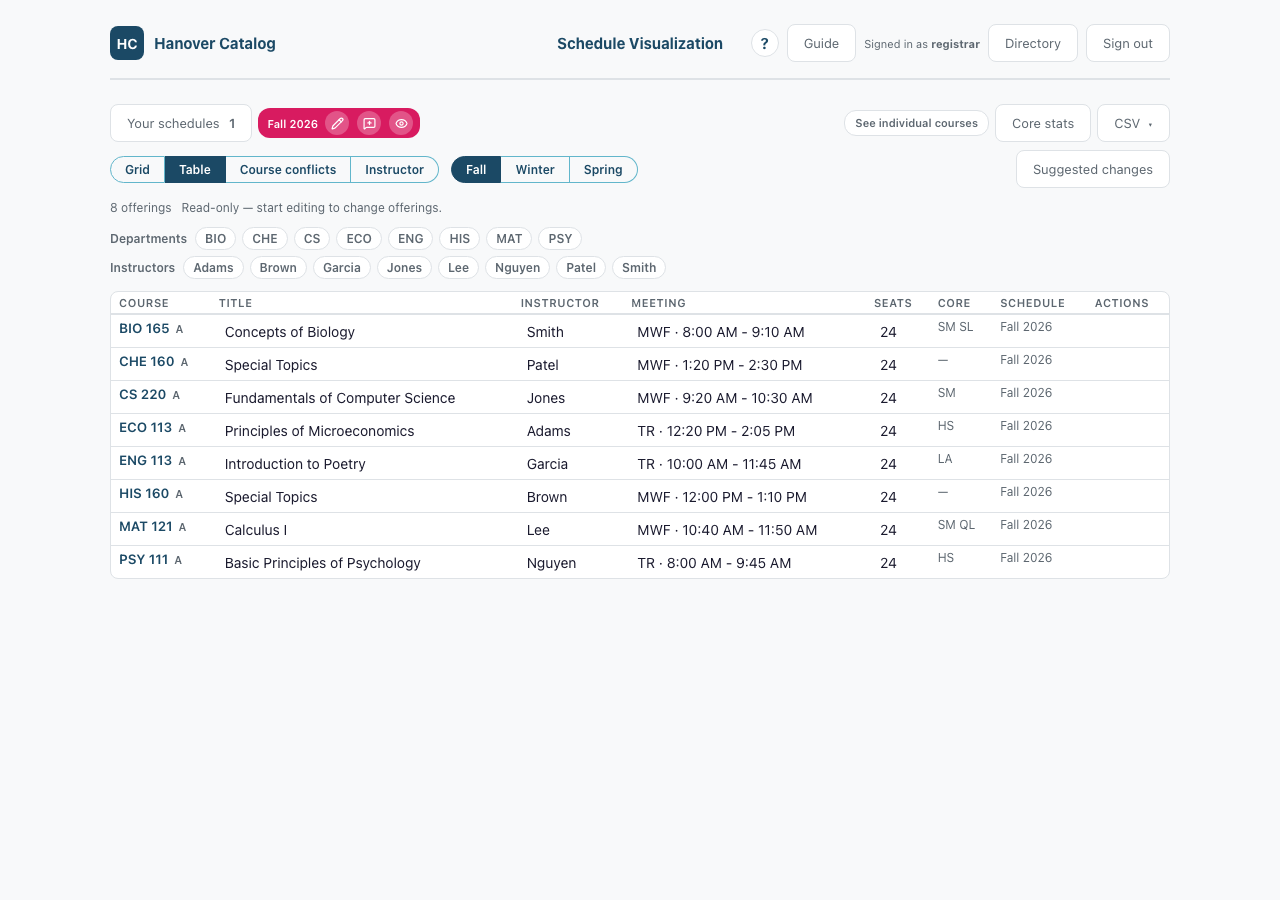
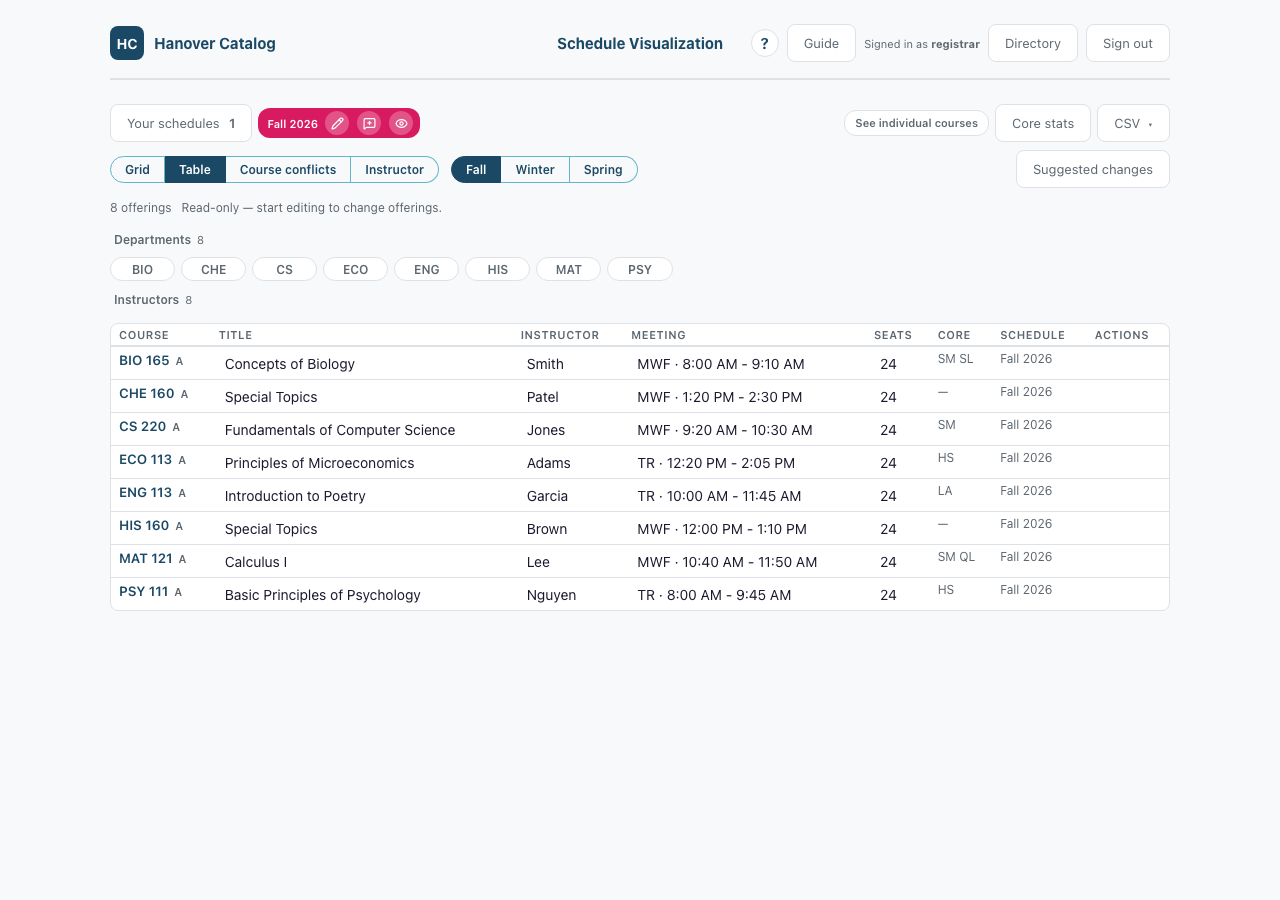
schedule: collapsible, uniform-width filter chips in the table
The instructor chip row dumped every instructor at once, and content-sized
chips made the list ragged. Each row is now a disclosure group with a header
('Instructors 34', or '2 selected' when active): Departments open by default,
Instructors closed, and any row with a selection stays open (so a deep link or
a fresh pick is never hidden). Both rows render as equal-width chip grids
(64px departments, 130px instructors) — a long name ellipsizes with a title
tooltip instead of stretching the row. The e2e asserts the collapsed default
and expands before the chip flow.

Changed region(s): [[0.0938, 0.2489, 0.9062, 0.6844]]

diff --git a/apps/schedule/components/ScheduleTable.vue b/apps/schedule/components/ScheduleTable.vue
@@ -18,35 +18,67 @@
     </div>
 
     <div class="schedule-table-filters">
-      <div v-if="departments.length" class="schedule-table-filter-row">
-        <span class="schedule-table-filter-label">Departments</span>
+      <div v-if="departments.length" class="schedule-table-filter-group">
         <button
-          v-for="d in departments"
-          :key="d"
           type="button"
-          class="filter-chip"
-          :class="{ active: selectedDepts.includes(d) }"
-          :style="selectedDepts.includes(d) ? { backgroundColor: colorForDept(d) } : {}"
-          :aria-pressed="selectedDepts.includes(d)"
-          @click="toggleDept(d)"
+          class="schedule-table-filter-toggle"
+          :aria-expanded="deptOpen || selectedDepts.length > 0"
+          @click="deptOpen = !deptOpen"
         >
-          {{ d }}{{ myDepartments.includes(d) ? ' (mine)' : '' }}
+          <span class="schedule-table-filter-label">Departments</span>
+          <span class="schedule-table-filter-count">{{
+            selectedDepts.length ? `${selectedDepts.length} selected` : departments.length
+          }}</span>
         </button>
+        <div
+          v-show="deptOpen || selectedDepts.length > 0"
+          class="schedule-table-filter-row schedule-table-chip-grid schedule-table-chip-grid-dept"
+        >
+          <button
+            v-for="d in departments"
+            :key="d"
+            type="button"
+            class="filter-chip"
+            :class="{ active: selectedDepts.includes(d) }"
+            :style="selectedDepts.includes(d) ? { backgroundColor: colorForDept(d) } : {}"
+            :aria-pressed="selectedDepts.includes(d)"
+            :title="d"
+            @click="toggleDept(d)"
+          >
+            {{ d }}{{ myDepartments.includes(d) ? ' (mine)' : '' }}
+          </button>
+        </div>
       </div>
-      <div v-if="instructors.length" class="schedule-table-filter-row">
-        <span class="schedule-table-filter-label">Instructors</span>
+      <div v-if="instructors.length" class="schedule-table-filter-group">
         <button
-          v-for="n in instructors"
-          :key="n"
           type="button"
-          class="filter-chip"
-          :class="{ active: selectedInstructors.includes(n) }"
-          :style="selectedInstructors.includes(n) ? { backgroundColor: colorForInstructor(n) } : {}"
-          :aria-pressed="selectedInstructors.includes(n)"
-          @click="toggleInstructor(n)"
+          class="schedule-table-filter-toggle"
+          :aria-expanded="instrOpen || selectedInstructors.length > 0"
+          @click="instrOpen = !instrOpen"
         >
-          {{ instructorName(n) }}
+          <span class="schedule-table-filter-label">Instructors</span>
+          <span class="schedule-table-filter-count">{{
+            selectedInstructors.length ? `${selectedInstructors.length} selected` : instructors.length
+          }}</span>
         </button>
+        <div
+          v-show="instrOpen || selectedInstructors.length > 0"
+          class="schedule-table-filter-row schedule-table-chip-grid schedule-table-chip-grid-instr"
+        >
+          <button
+            v-for="n in instructors"
+            :key="n"
+            type="button"
+            class="filter-chip"
+            :class="{ active: selectedInstructors.includes(n) }"
+            :style="selectedInstructors.includes(n) ? { backgroundColor: colorForInstructor(n) } : {}"
+            :aria-pressed="selectedInstructors.includes(n)"
+            :title="instructorName(n)"
+            @click="toggleInstructor(n)"
+          >
+            {{ instructorName(n) }}
+          </button>
+        </div>
       </div>
       <button
         v-if="selectedDepts.length || selectedInstructors.length"
@@ -371,6 +403,10 @@ export default {
       selectedDepts.value = []
       selectedInstructors.value = []
     }
+    // Departments are few (expanded by default); instructors can be many, so
+    // that row starts collapsed. Either stays open while it has selections.
+    const deptOpen = ref(true)
+    const instrOpen = ref(false)
     const rows = computed(() =>
       scheduleOfferings.value
         .filter((o) => rowMatchesFilters(o, selectedDepts.value, selectedInstructors.value))
@@ -597,6 +633,8 @@ export default {
       selectedDepts,
       selectedInstructors,
       filterActive,
+      deptOpen,
+      instrOpen,
       toggleDept,
       toggleInstructor,
       clearFilters,

diff --git a/style/partials/_schedule-table.scss b/style/partials/_schedule-table.scss
@@ -22,15 +22,63 @@
   margin-bottom: var(--space-3);
 }
 
-.schedule-table-filter-row {
-  @include flex-row(6px);
+.schedule-table-filter-group {
+  display: flex;
+  flex-direction: column;
+  gap: 6px;
+}
+
+// The group's disclosure header: label + count, chips beneath.
+.schedule-table-filter-toggle {
+  @include button-reset;
+  display: inline-flex;
   align-items: center;
+  gap: 6px;
+  align-self: flex-start;
+  min-height: 24px;
+  padding: 2px 4px;
+  border-radius: var(--radius-sm);
+  color: var(--text-muted);
+
+  &:hover {
+    background: var(--primary-light);
+  }
 }
 
 .schedule-table-filter-label {
   @include text-label-sm;
+}
+
+.schedule-table-filter-count {
+  @include text-caption;
+  font-weight: var(--weight-normal);
   color: var(--text-muted);
-  margin-right: 2px;
+}
+
+// Uniform chip grid: every chip fills an equal-width cell (so a long name
+// ellipsizes instead of stretching the row), making the list easy to scan.
+.schedule-table-chip-grid {
+  display: grid;
+  gap: 6px;
+
+  .filter-chip {
+    display: block;
+    width: 100%;
+    min-width: 0;
+    min-height: 24px;
+    overflow: hidden;
+    text-align: center;
+    text-overflow: ellipsis;
+    white-space: nowrap;
+  }
+}
+
+.schedule-table-chip-grid-dept {
+  grid-template-columns: repeat(auto-fill, minmax(64px, 1fr));
+}
+
+.schedule-table-chip-grid-instr {
+  grid-template-columns: repeat(auto-fill, minmax(130px, 1fr));
 }
 
 .schedule-table-count,

diff --git a/docs-site/guide/schedule/views.md b/docs-site/guide/schedule/views.md
@@ -36,10 +36,12 @@ side by side.
 Every offering of the selected schedules' term as a compact, spreadsheet-like
 row: course and section, title, instructor, meeting, seats, core areas, and the
 schedule it came from. **Departments** and **Instructors** chips hide everything
-that does not match — pick several chips to widen, **Clear** to reset — and the
-choice lives in the address (`#/table?dept=CS&dept=MAT&instructor=jsmith`), so
-clicking a course link and coming back (or the browser Back button) keeps the
-filters. When you start editing (or suggesting), the cells you are allowed
+that does not match — pick several chips to widen, **Clear** to reset. The
+Instructors row starts collapsed (expand it from its header); each row's chips
+are one uniform width so long names don't make the list ragged. The choice lives
+in the address (`#/table?dept=CS&dept=MAT&instructor=jsmith`), so clicking a
+course link and coming back (or the browser Back button) keeps the filters. When
+you start editing (or suggesting), the cells you are allowed
 to change become editable in place: the instructor cell suggests names as you
 type (and shows just the lead, with a **+N** when co-teachers are attached —
 the full editor manages those), and the meeting cell picks from the term's

diff --git a/apps/schedule/README.md b/apps/schedule/README.md
@@ -112,7 +112,10 @@ compact row per offering — course and section, title, instructor, meeting, sea
 core areas, and the source schedule — with **Departments** and **Instructors**
 chip rows that *hide* non-matching rows (a row shows when its prefix is among
 the selected departments and any of its instructors is among the selected ones;
-instructors match the full roster, lead or co-teacher). Inside a session the
+instructors match the full roster, lead or co-teacher). The rows collapse
+(Instructors closed by default, and any row with a selection stays open) and
+their chips share one width per row so a long name ellipsizes instead of
+stretching the list. Inside a session the
 cells a user may touch (owners anywhere;
 a non-owner only their departments, per `canTouchOffering`) edit in place: title
 and seats commit through `updateOffering`, so drafts, history, and cross-list
